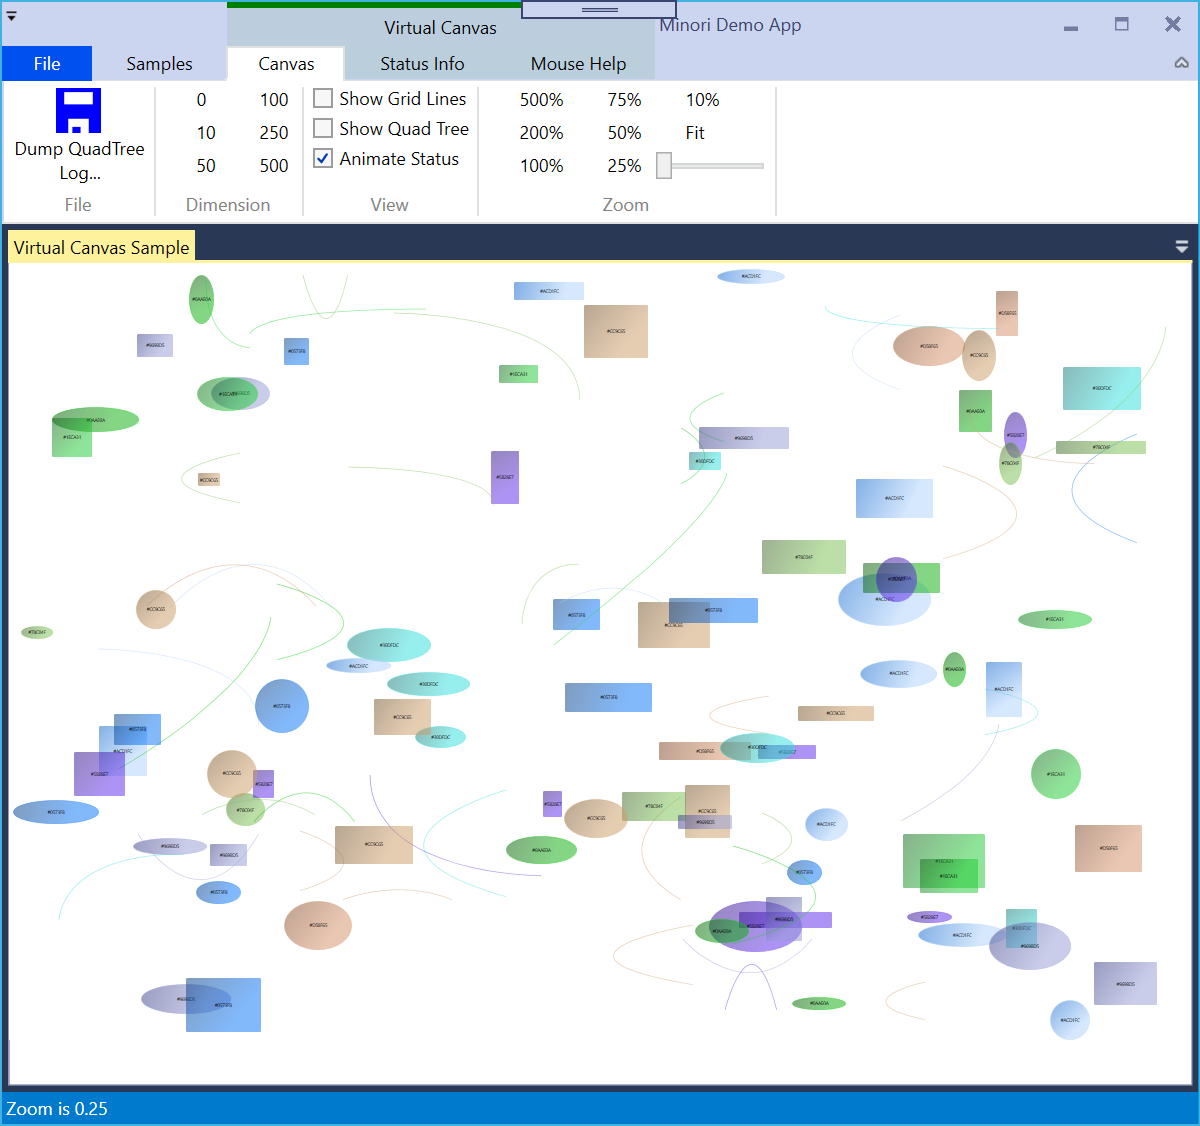
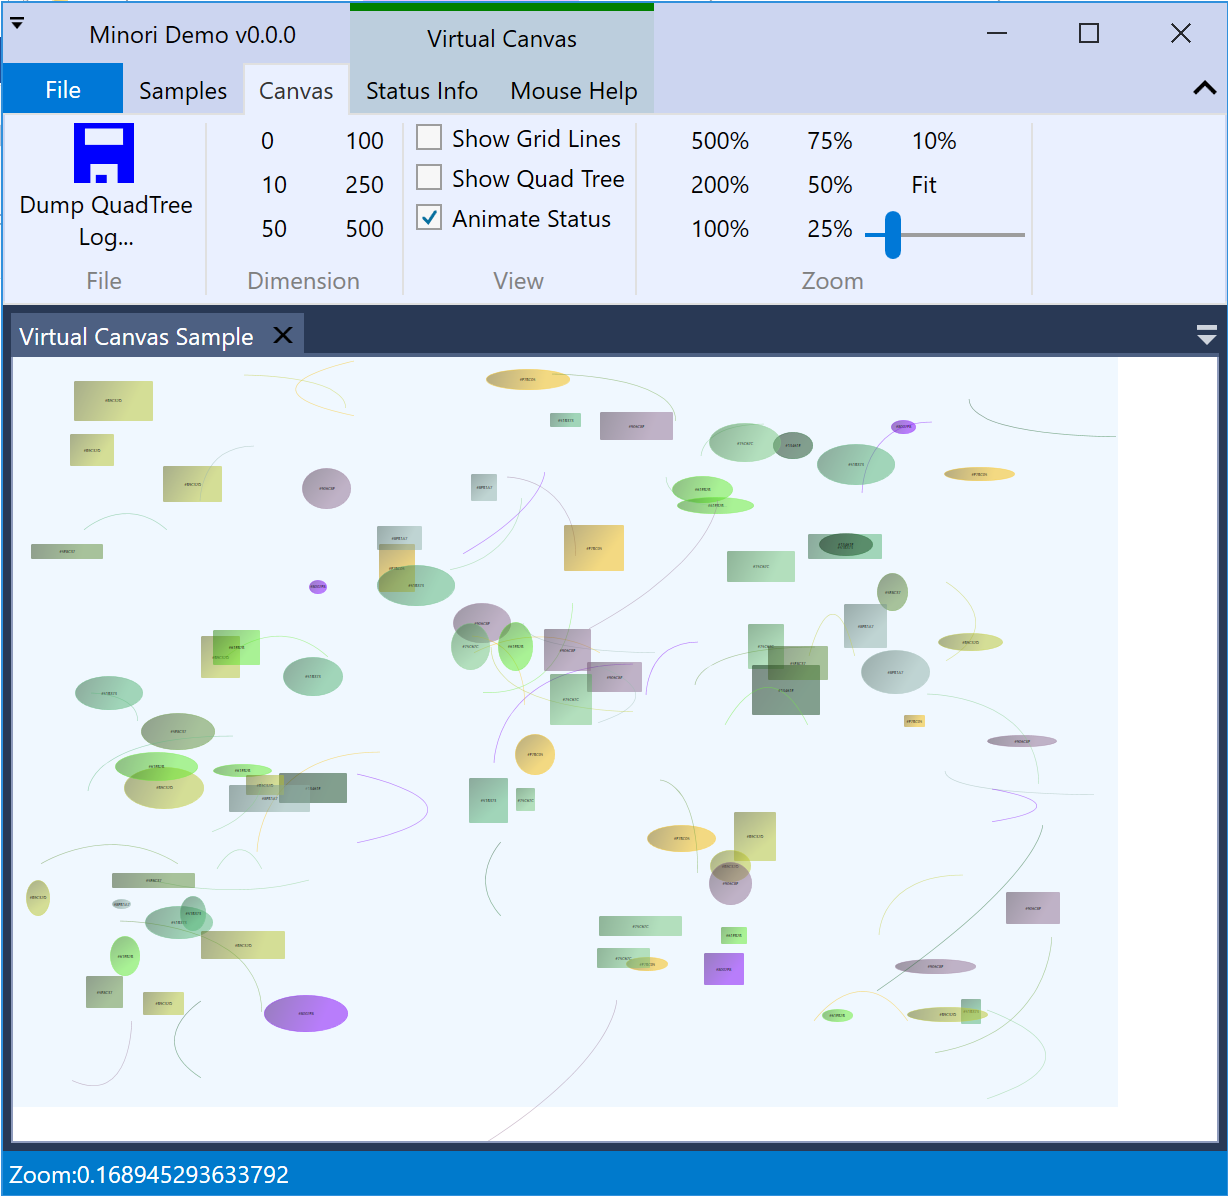
Fix images

diff --git a/Modules/MinoriEditorShell.Platforms.Wpf/Themes/BlueTheme.xaml b/Modules/MinoriEditorShell.Platforms.Wpf/Themes/BlueTheme.xaml
@@ -438,9 +438,9 @@
     <SolidColorBrush x:Key="MahApps.Brushes.Window.Glow" Color="#FF017ACC"  options:Freeze="True" />
     <SolidColorBrush x:Key="MahApps.Brushes.WindowButtonCommands.Background.MouseOver" Color="#66DCDCDC"  options:Freeze="True" />
     <SolidColorBrush x:Key="MahApps.Brushes.WindowButtonCommands.HoverBackground" Color="#66DCDCDC"  options:Freeze="True" />
-    <SolidColorBrush x:Key="MahApps.Brushes.WindowTitle" Color="#FFD6DBE9"  options:Freeze="True" />
+    <SolidColorBrush x:Key="MahApps.Brushes.WindowTitle" Color="#FFCCD5F0"  options:Freeze="True" />
     <SolidColorBrush x:Key="MahApps.Brushes.WindowTitle.Foreground" Color="#FF999988"  options:Freeze="True" />
-    <SolidColorBrush x:Key="MahApps.Brushes.WindowTitle.NonActive" Color="#FFD6DBE9"  options:Freeze="True" />
+    <SolidColorBrush x:Key="MahApps.Brushes.WindowTitle.NonActive" Color="#FFCCD5F0"  options:Freeze="True" />
     <SolidColorBrush x:Key="MahApps.HamburgerMenu.Pane.Background" Color="#FF444444"  options:Freeze="True" />
     <SolidColorBrush x:Key="MahApps.HamburgerMenu.Pane.Foreground" Color="#FFFFFFFF"  options:Freeze="True" />
     <SolidColorBrush x:Key="Theme.ShowcaseBrush" Color="#FF0078D7"  options:Freeze="True" />

diff --git a/Modules/MinoriEditorShell.Ribbon/Platforms/Wpf/Themes/BlueTheme.xaml b/Modules/MinoriEditorShell.Ribbon/Platforms/Wpf/Themes/BlueTheme.xaml
@@ -10,8 +10,8 @@
         <ResourceDictionary Source="pack://application:,,,/Fluent;component/Themes/Themes/Light.Blue.xaml" />
     </ResourceDictionary.MergedDictionaries>
     <!-- Begin SolidColorBrush Export -->
-    <SolidColorBrush x:Key="Fluent.Ribbon.Brushes.RibbonTabControl.Background" Color="#FFD6DBE9"  options:Freeze="True" />
-    <SolidColorBrush x:Key="Fluent.Ribbon.Brushes.RibbonTabControl.Content.Background" Color="#FFE7E8EC"  options:Freeze="True" />
-    <SolidColorBrush x:Key="Fluent.Ribbon.Brushes.RibbonTabItem.Active.Background" Color="#FFE7E8EC"  options:Freeze="True" />
+    <SolidColorBrush x:Key="Fluent.Ribbon.Brushes.RibbonTabControl.Background" Color="#FFCCD5F0"  options:Freeze="True" />
+    <SolidColorBrush x:Key="Fluent.Ribbon.Brushes.RibbonTabControl.Content.Background" Color="#FFEAF0FF"  options:Freeze="True" />
+    <SolidColorBrush x:Key="Fluent.Ribbon.Brushes.RibbonTabItem.Active.Background" Color="#FFEAF0FF"  options:Freeze="True" />
     <!-- End SolidColorBrush Export -->
 </ResourceDictionary>

diff --git a/README.md b/README.md
@@ -44,7 +44,7 @@ MinoriEditorShell is a IDE framework designed specifically for building multi do
 
 MinoriEditorShell ships with three themes: a Blue theme(Default), a Light theme, and a Dark theme.
 
-![Screenshot - Blue theme](https://raw.github.com/TorisanKitsune/MinoriEditorShell/master/Images/BlueDemoApp.png)
+![Screenshot - Blue theme](https://raw.github.com/TorisanKitsune/MinoriEditorShell/develop/Images/BlueDemoApp.png)
 
 ## Modules used
 
